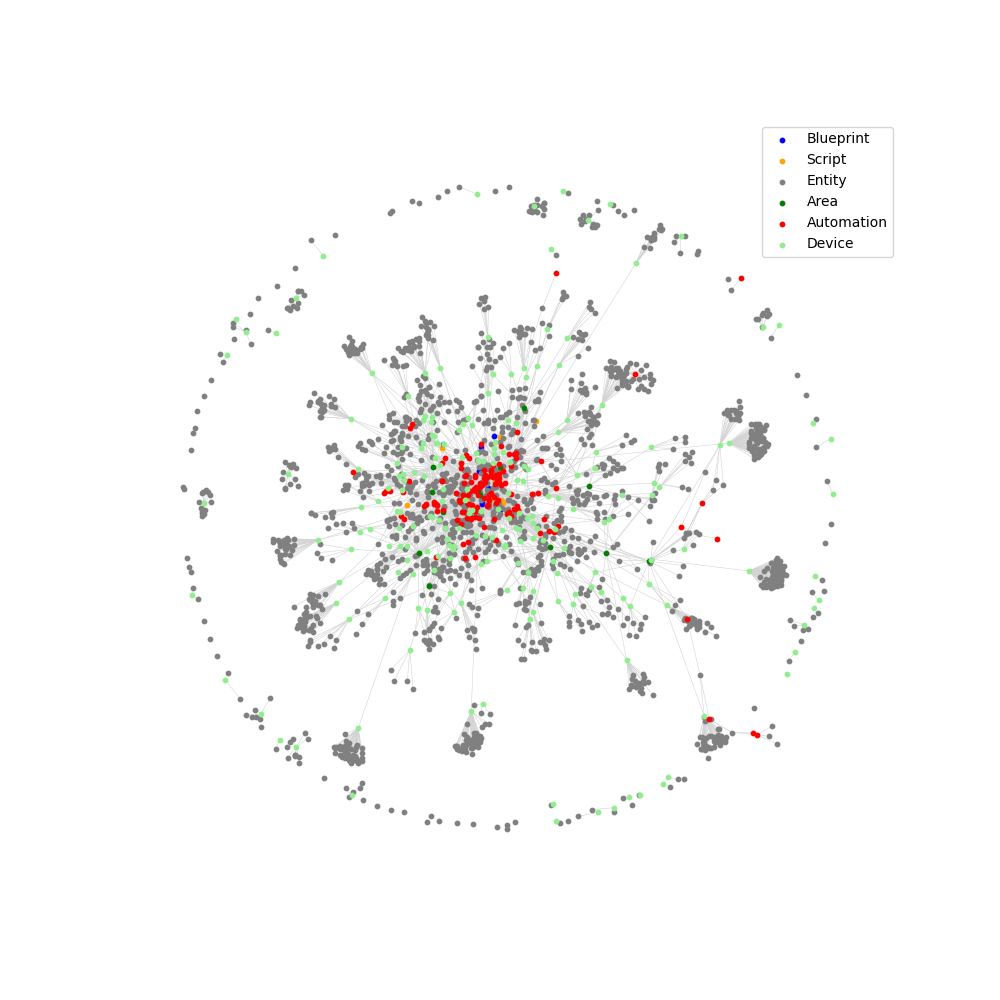
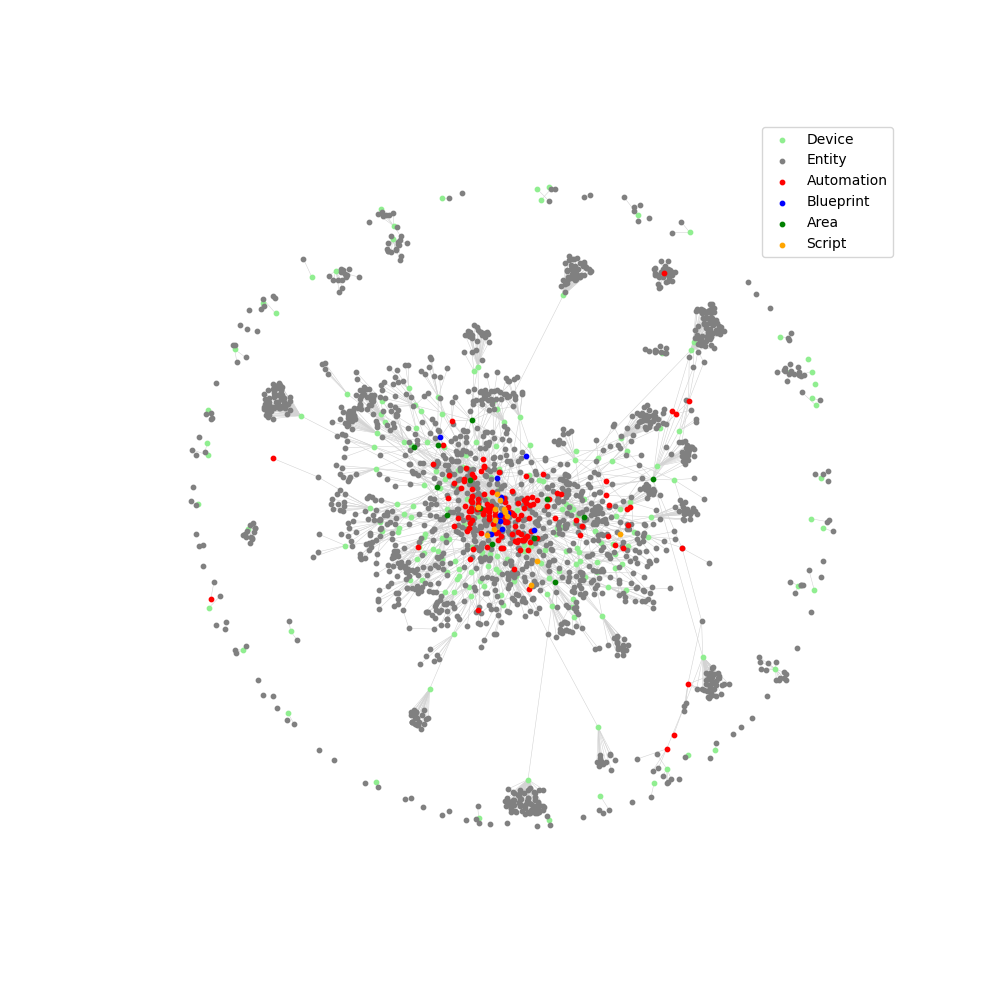
Initial deployment of Music Assistant

diff --git a/README.md b/README.md
@@ -26,7 +26,7 @@ Domain | Quantity
 [`assist_satellite`](https://www.home-assistant.io/components/assist_satellite) | 2
 [`automation`](https://www.home-assistant.io/components/automation) | 136
 [`binary_sensor`](https://www.home-assistant.io/components/binary_sensor) | 172
-[`button`](https://www.home-assistant.io/components/button) | 179
+[`button`](https://www.home-assistant.io/components/button) | 185
 [`calendar`](https://www.home-assistant.io/components/calendar) | 7
 [`camera`](https://www.home-assistant.io/components/camera) | 7
 [`climate`](https://www.home-assistant.io/components/climate) | 6
@@ -42,7 +42,7 @@ Domain | Quantity
 [`input_select`](https://www.home-assistant.io/components/input_select) | 9
 [`input_text`](https://www.home-assistant.io/components/input_text) | 19
 [`light`](https://www.home-assistant.io/components/light) | 73
-[`media_player`](https://www.home-assistant.io/components/media_player) | 5
+[`media_player`](https://www.home-assistant.io/components/media_player) | 8
 [`notify`](https://www.home-assistant.io/components/notify) | 2
 [`number`](https://www.home-assistant.io/components/number) | 143
 [`person`](https://www.home-assistant.io/components/person) | 3
@@ -55,12 +55,12 @@ Domain | Quantity
 [`switch`](https://www.home-assistant.io/components/switch) | 72
 [`text`](https://www.home-assistant.io/components/text) | 32
 [`tts`](https://www.home-assistant.io/components/tts) | 2
-[`update`](https://www.home-assistant.io/components/update) | 116
+[`update`](https://www.home-assistant.io/components/update) | 117
 [`vacuum`](https://www.home-assistant.io/components/vacuum) | 1
 [`wake_word`](https://www.home-assistant.io/components/wake_word) | 1
 [`weather`](https://www.home-assistant.io/components/weather) | 1
 [`zone`](https://www.home-assistant.io/components/zone) | 16
-Total | 1862
+Total | 1872
 
 ## Core Integrations
 - [AdGuard](https://home-assistant.io/integrations/adguard)
@@ -100,6 +100,7 @@ Total | 1862
 - Everything Presence Zone Configurator
 - File editor
 - Mosquitto broker
+- Music Assistant
 - openWakeWord
 - Piper
 - Samba share
